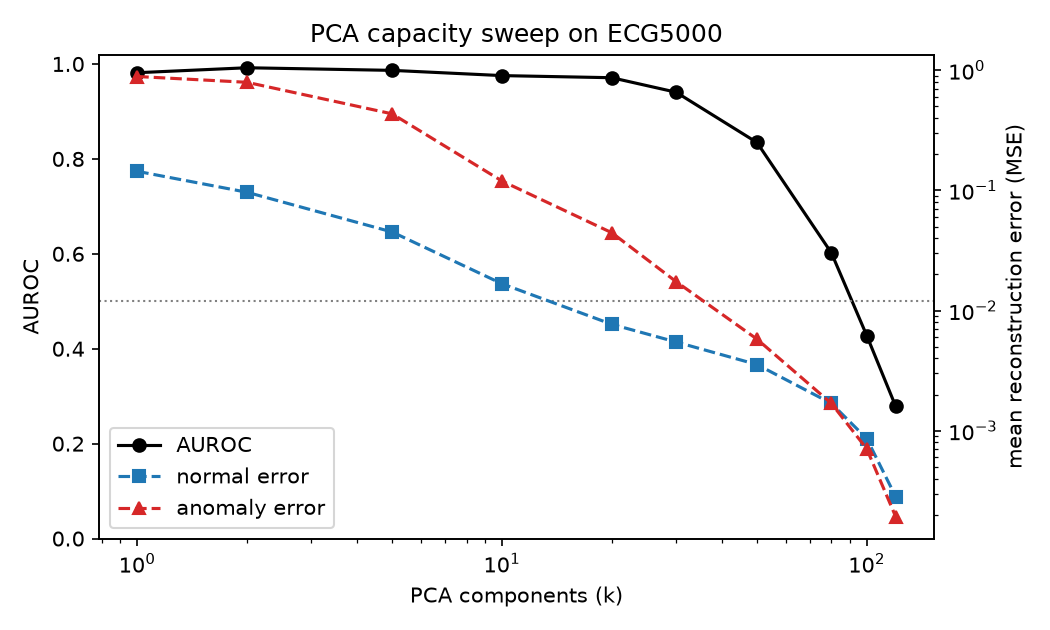
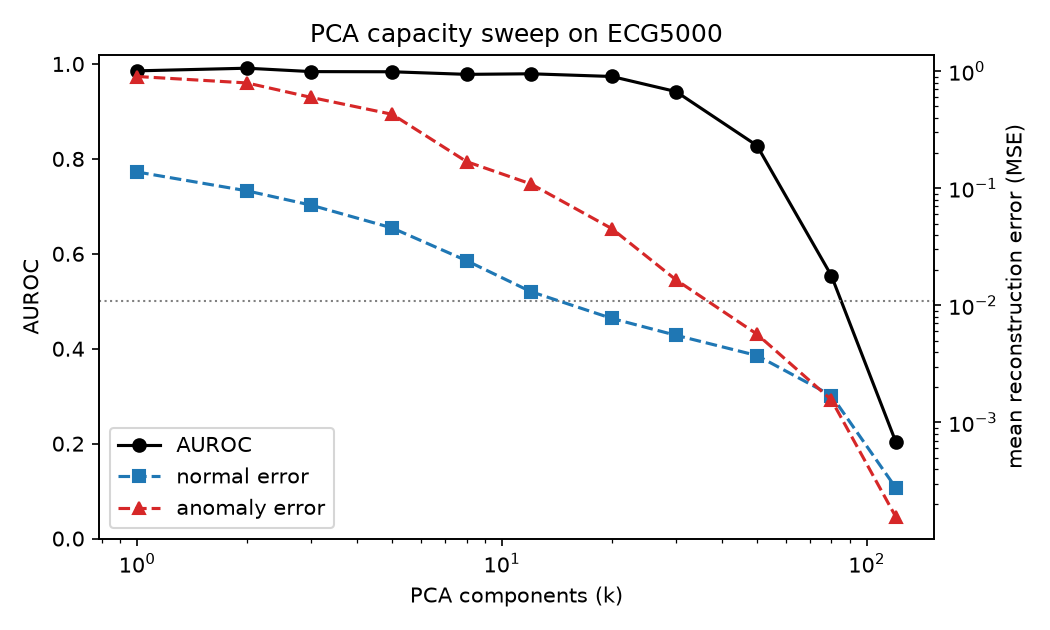
Switch ECG5000 split to 70/15/15 and rerun PCA baselines

diff --git a/src/data.py b/src/data.py
@@ -3,9 +3,12 @@
 The UCR train/test files are pooled (5000 beats) and re-split, since the
 original 500-row train file holds only ~290 normal beats.
 
-    train : 60% of normal beats
-    val   : 10% of normal beats
-    test  : remaining 30% of normal beats + all anomalous beats
+    train : 70% of normal beats
+    val   : 15% of normal beats
+    test  : remaining 15% of normal beats + all anomalous beats
+
+UCR distributes every beat already z-normalized (mean 0, std ~1 per beat), so
+amplitude and variance carry no information; we keep that preprocessing.
 """
 import urllib.request
 from pathlib import Path
@@ -44,8 +47,8 @@ def make_splits(X, y, seed=SEED):
     normal_idx = rng.permutation(np.flatnonzero(y == NORMAL_CLASS))
     anomaly_idx = np.flatnonzero(y != NORMAL_CLASS)
 
-    n_train = int(0.6 * len(normal_idx))
-    n_val = int(0.1 * len(normal_idx))
+    n_train = int(0.7 * len(normal_idx))
+    n_val = int(0.15 * len(normal_idx))
     train_idx = normal_idx[:n_train]
     val_idx = normal_idx[n_train:n_train + n_val]
     test_idx = np.concatenate([normal_idx[n_train + n_val:], anomaly_idx])

diff --git a/src/pca_model.py b/src/pca_model.py
@@ -19,7 +19,7 @@ ROOT = Path(__file__).resolve().parent.parent
 METRICS_DIR = ROOT / "results" / "metrics"
 FIGURES_DIR = ROOT / "results" / "figures"
 
-KS = [1, 2, 5, 10, 20, 30, 50, 80, 100, 120]
+KS = [1, 2, 3, 5, 8, 12, 20, 30, 50, 80, 120]
 
 
 def reconstruct(pca, X):

diff --git a/README.md b/README.md
@@ -48,14 +48,16 @@ autoencoder?
 
 ### Sanity check results (PCA)
 
+Normal beats split 70/15/15 (train/val/test); all anomalies in test.
+
 | Components (k) | Normal error | Anomaly error | AUROC |
 |---:|---:|---:|---:|
-| 1   | 0.142  | 0.912  | 0.979 |
-| 5   | 0.045  | 0.407  | 0.986 |
-| 20  | 0.0075 | 0.047  | 0.978 |
-| 50  | 0.0035 | 0.0062 | 0.873 |
-| 80  | 0.0017 | 0.0015 | 0.519 |
-| 120 | 0.0003 | 0.0002 | 0.324 |
+| 1   | 0.138  | 0.901  | 0.986 |
+| 5   | 0.046  | 0.428  | 0.984 |
+| 20  | 0.0077 | 0.045  | 0.974 |
+| 50  | 0.0037 | 0.0057 | 0.828 |
+| 80  | 0.0017 | 0.0016 | 0.554 |
+| 120 | 0.0003 | 0.0002 | 0.205 |
 
 AUROC starts near-perfect at low capacity and collapses to at/below chance
 as capacity increases — the model becomes too good at reconstructing
